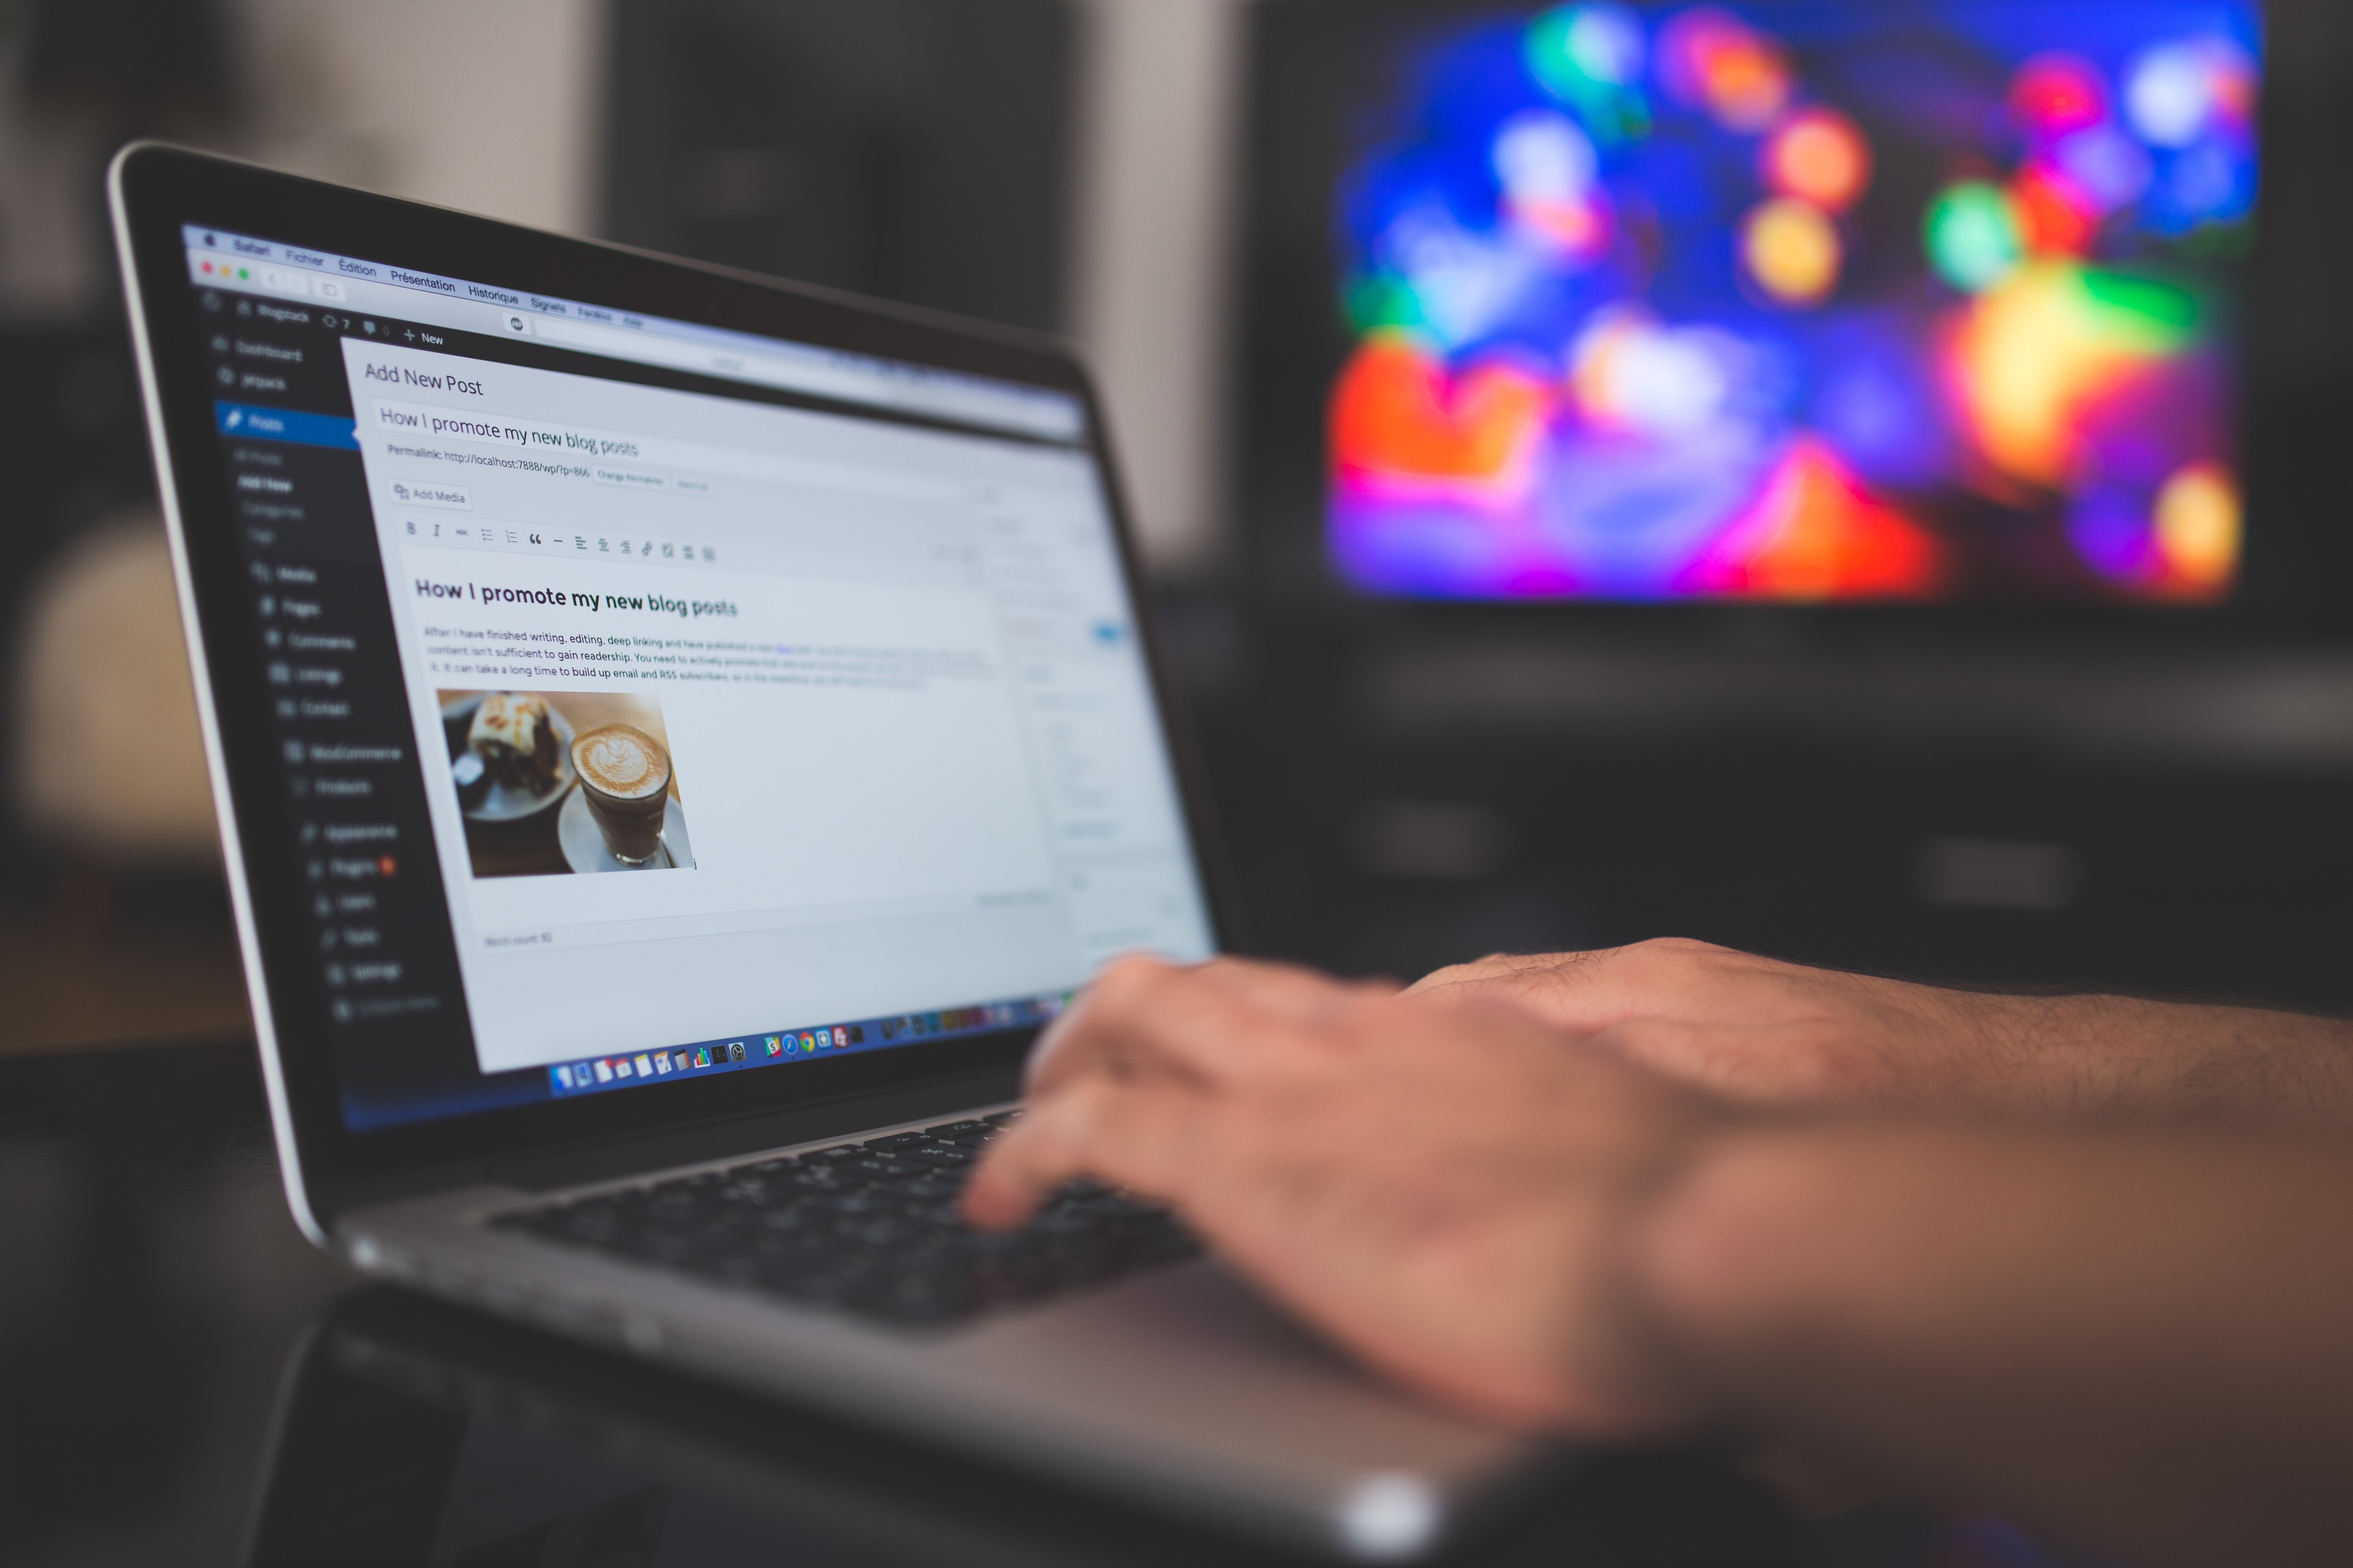
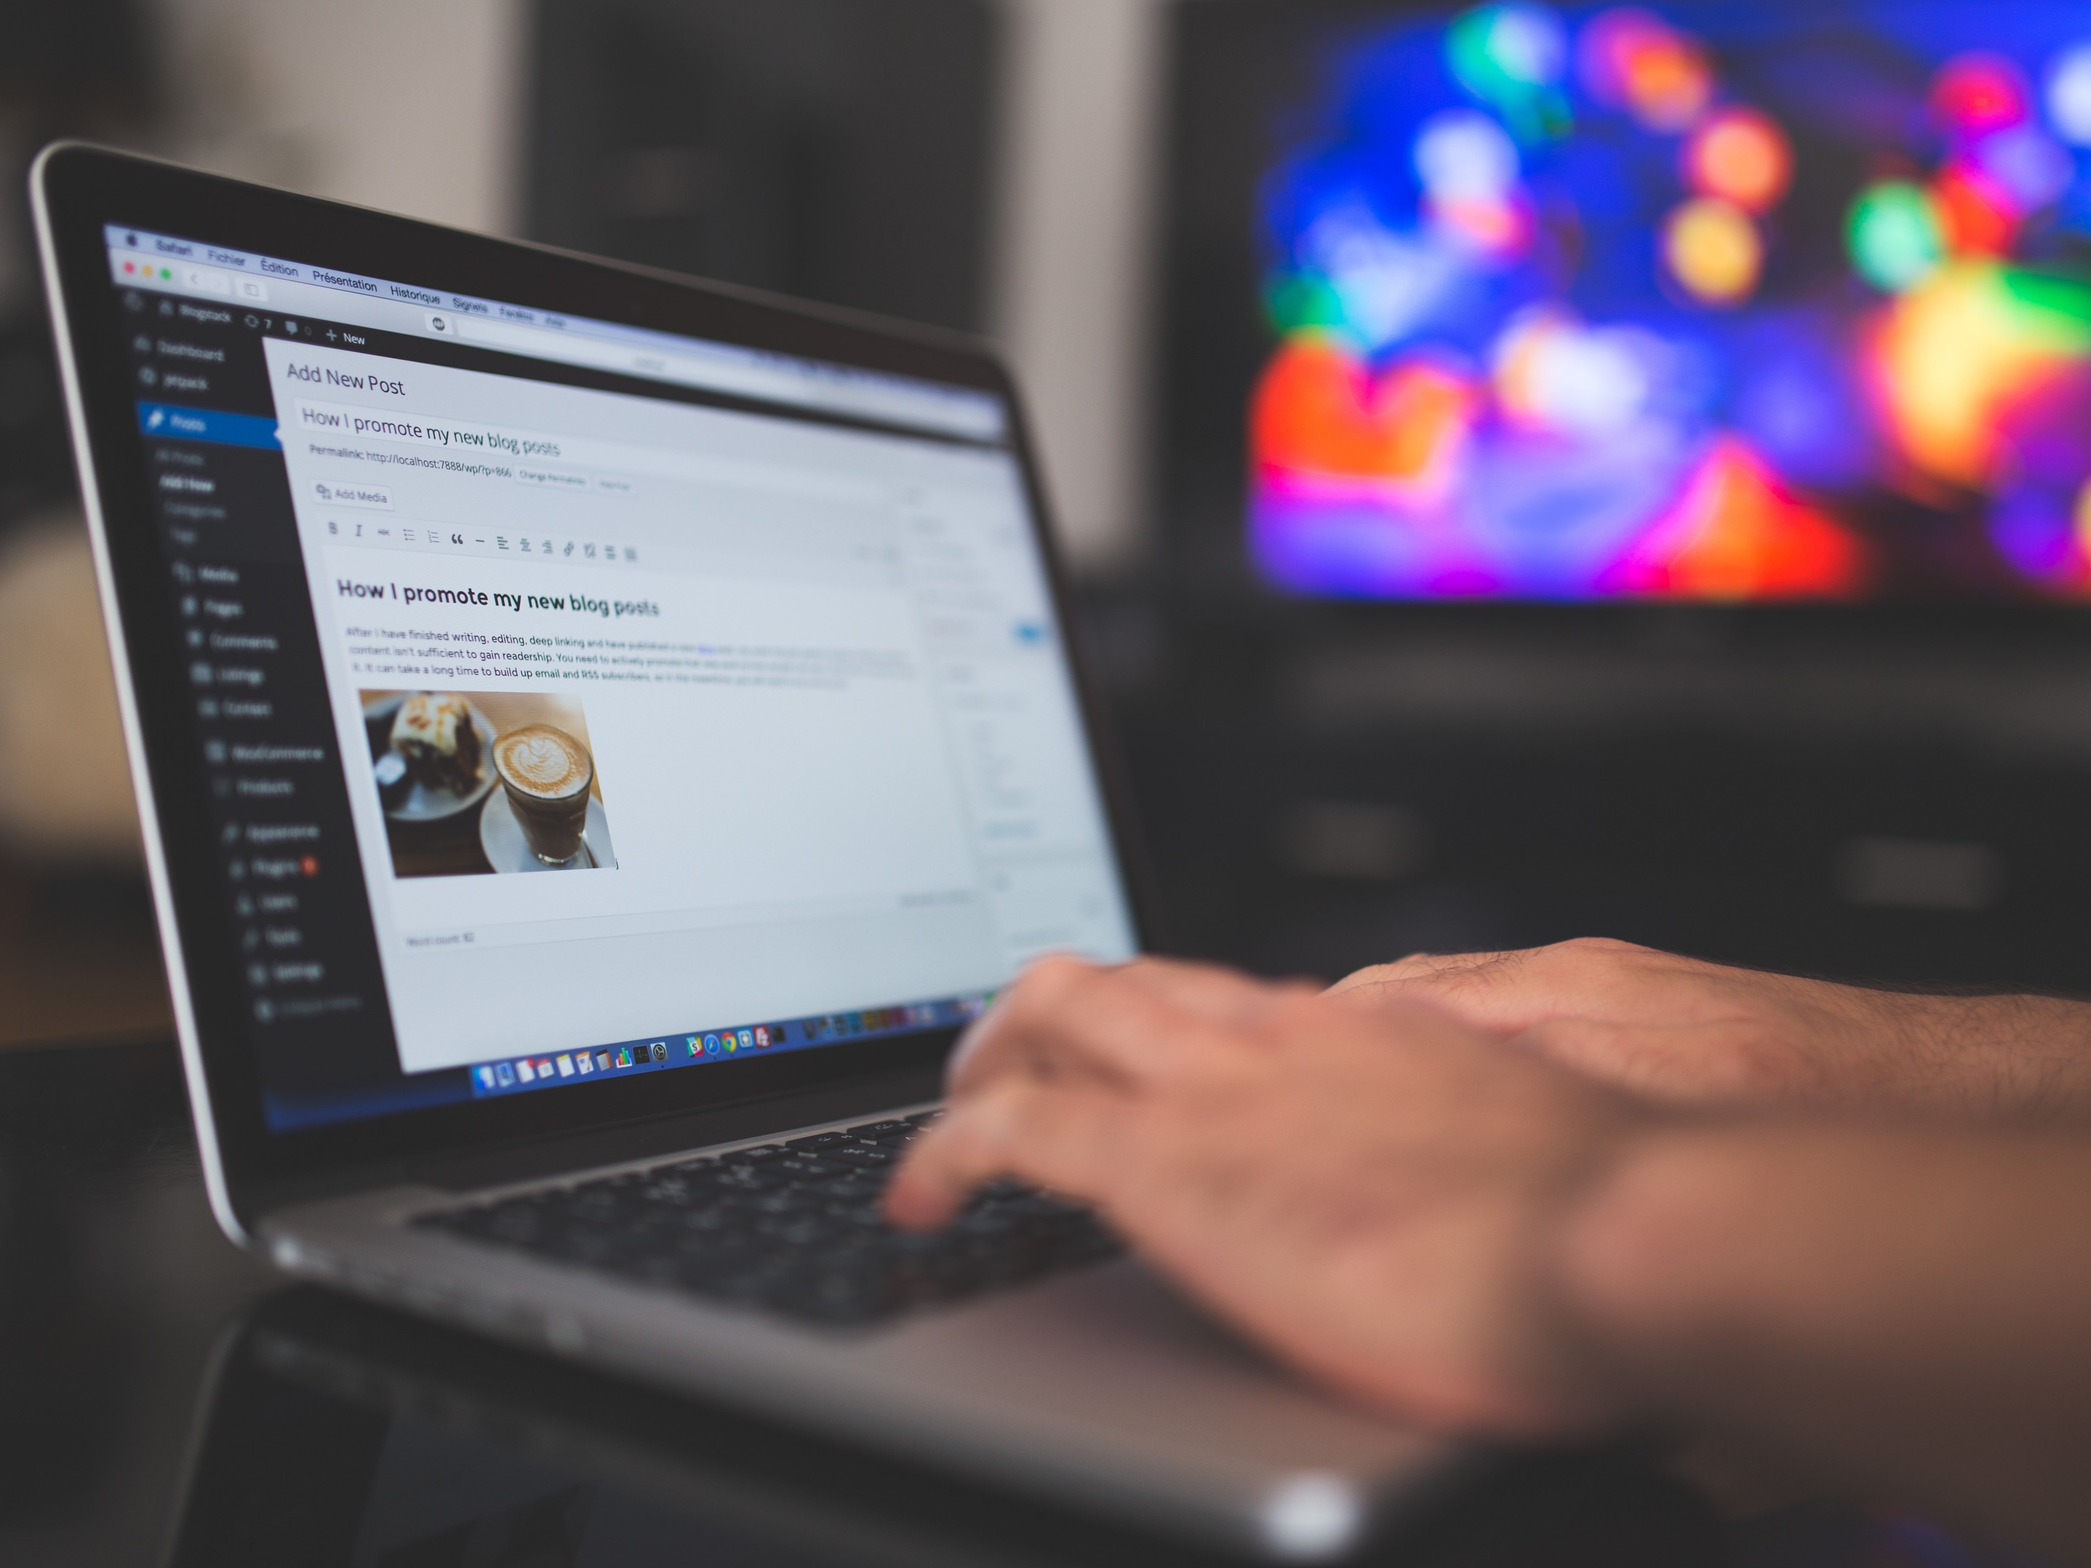
updated projects

diff --git a/index.html b/index.html
@@ -67,8 +67,12 @@
 
         <div class="project-grid">
             <div class="project-row row-1">
-                <div class="project-pic"></div>
-                <div class="project-description"><h3>nooajaakkola.com</h3></div>
+                <div class="project-pic"><img src="imgs/projectpic-website.jpg"></div>
+                <div class="project-description">
+                    <h3 class="project-desc-title">nooajaakkola.com</h3>
+                    <p class="project-desc-description">My latest ongoing project is this website. I will be updating it with my newest projects, updates and possible visual tweaks.</p>
+                    <p class="project-desc-description">Anyone who's interested in collaborating and creating more modern and responsive website's can hit me up throught the 'Contacts' form. </p>
+                </div>
             </div>
             <div class="project-row row-2"></div>
             <div class="project-row row-3"></div>

diff --git a/styles.css b/styles.css
@@ -285,8 +285,8 @@ p span {
     grid-column-start: 1;
     grid-column-end: 3;
     width:100%;
-    height: 250px;
-    display:flex;
+    height: fit-content;
+    display: flex;
 
     background-color: var(--card-bg);
     border-radius: 12px;
@@ -300,20 +300,31 @@ p span {
 }
 
 .project-pic {
+    height: min-content;
     border-radius: 12px;
-    height: 100%;
-    width: 400px;
     border-right: 1px solid rgba(99, 102, 241, 0.3);
+}
 
-    background-image: url("imgs/projectpic-website.jpg");
-    background-size: 100%;
-    background-repeat: no-repeat;
+.project-pic img {
+    height: 10vw;
+    display: block;
 }
 
 .project-description {
     width: auto;
     height: 100%;
     padding: 1rem;
+}
+
+
+.project-desc-title {
+    font-size: 1vw;
+    margin-bottom: 0.3vw;   
+}
+
+.project-desc-description {
+    color: var(--text-muted);
+    font-size: 1.2rem;
 }
 
 .row-1 {
